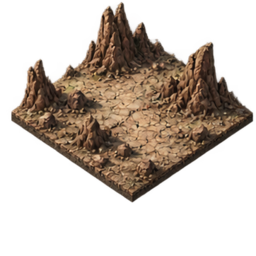
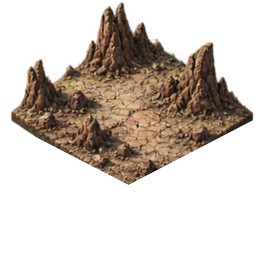
Improve isometric terrain layering
Amp-Thread-ID: https://ampcode.com/threads/T-01a0fe7e-6df1-75f4-80e9-f84066c7caea

Changed region(s): [[0.1875, 0.5, 0.9375, 0.8125], [0.9375, 0.4688, 1.0, 0.5], [0.1562, 0.5312, 0.1875, 0.5625]]

diff --git a/client/workspace/map-iso-renderer.ts b/client/workspace/map-iso-renderer.ts
@@ -17,7 +17,8 @@ const {
   isoRoomVariant,
   isoTerrainColor,
   isoTerrainMotion,
-  isoTerrainSprite,
+  isoTerrainOrientation,
+  isoTerrainSpriteForExits,
   isoVisible,
   projectIso,
 } = isoCore;
@@ -104,6 +105,7 @@ interface RoomMovement {
 
 const WATER = new Set(["sea", "lake", "river", "underwater"]);
 const WOODED = new Set(["forest", "jungle", "canopy"]);
+const ROUTED_TERRAIN = new Set(["bridge", "path", "road"]);
 const ISO_RENDER_SCALE = 2;
 const MOVE_DURATION_MS = 900;
 const SPATIAL_EXITS = new Set([
@@ -375,6 +377,48 @@ export function createIsoMapRenderer() {
     livingNodes.push({ node, terrain, variant });
   };
 
+  const addRouteSurface = (
+    layer: Container,
+    room: WorldMapRoom,
+    terrain: string,
+    x: number,
+    y: number,
+    width: number,
+    height: number,
+  ): void => {
+    if (!pixi || !ROUTED_TERRAIN.has(terrain)) return;
+    const points: Record<string, [number, number]> = {
+      north: [x + width * 0.25, y - height * 0.25],
+      northeast: [x + width * 0.5, y],
+      east: [x + width * 0.25, y + height * 0.25],
+      southeast: [x, y + height * 0.5],
+      south: [x - width * 0.25, y + height * 0.25],
+      southwest: [x - width * 0.5, y],
+      west: [x - width * 0.25, y - height * 0.25],
+      northwest: [x, y - height * 0.5],
+    };
+    const exits = Object.keys(room.exits ?? {}).filter((direction) => SPATIAL_EXITS.has(direction));
+    if (!exits.length) return;
+    const outerWidth =
+      (terrain === "path" ? 10 : 18) * (width / (ISO_TILE_WIDTH * ISO_RENDER_SCALE));
+    const innerWidth = outerWidth * 0.68;
+    const outer = new pixi.Graphics();
+    const inner = new pixi.Graphics();
+    for (const direction of exits) {
+      const point = points[direction];
+      if (!point) continue;
+      outer.moveTo(x, y).lineTo(point[0], point[1]);
+      inner.moveTo(x, y).lineTo(point[0], point[1]);
+    }
+    outer.stroke({ color: 0x4b3c2d, alpha: 0.72, width: outerWidth });
+    inner.stroke({
+      color: terrain === "bridge" ? 0x8b6842 : terrain === "path" ? 0xa78b61 : 0x9b866b,
+      alpha: terrain === "path" ? 0.7 : 0.88,
+      width: innerWidth,
+    });
+    layer.addChild(outer, inner);
+  };
+
   const addExits = (
     layer: Container,
     room: WorldMapRoom,
@@ -399,6 +443,7 @@ export function createIsoMapRenderer() {
       const point = points[direction];
       if (!point) continue;
       const door = Number(room.exitDoors?.[direction]) || 0;
+      if (!door) continue;
       layer.addChild(
         new pixi.Graphics()
           .moveTo(x, y)
@@ -680,6 +725,9 @@ export function createIsoMapRenderer() {
     }
 
     const ground = new pixi.Container();
+    const terrainBases = new pixi.Container();
+    const terrainArt = new pixi.Container();
+    ground.addChild(terrainBases, terrainArt);
     const features = new pixi.Container();
     const figures = new pixi.Container();
     const world = new pixi.Container();
@@ -710,7 +758,25 @@ export function createIsoMapRenderer() {
     let paintedTerrainSprites = 0;
     for (const { room, point } of visibleRooms) {
       const terrain = String(getPrimaryTerrain(room.environment));
+      const terrainOrientation = ROUTED_TERRAIN.has(terrain)
+        ? String(isoTerrainOrientation(room.exits))
+        : "";
+      const terrainSpriteName = String(isoTerrainSpriteForExits(terrain, room.exits));
       const color = isoTerrainColor(terrain);
+      const underlayColor = WATER.has(terrain)
+        ? 0x24383a
+        : ROUTED_TERRAIN.has(terrain)
+          ? isoTerrainColor("outside")
+          : color;
+      terrainBases.addChild(
+        new pixi.Graphics()
+          .moveTo(point.x, point.y - tileHeight / 2)
+          .lineTo(point.x + tileWidth / 2, point.y)
+          .lineTo(point.x, point.y + tileHeight / 2)
+          .lineTo(point.x - tileWidth / 2, point.y)
+          .closePath()
+          .fill({ color: underlayColor, alpha: WATER.has(terrain) ? 1 : 0.55 }),
+      );
       const diamond = new pixi.Graphics()
         .moveTo(point.x, point.y - tileHeight / 2)
         .lineTo(point.x + tileWidth / 2, point.y)
@@ -719,17 +785,20 @@ export function createIsoMapRenderer() {
         .closePath()
         .fill({ color: lighten(color, isoRoomVariant(room.id, 3) * 5), alpha: 0.98 })
         .stroke({ color: darken(color, 30), alpha: 0.9, width: Math.max(1, zoom) });
-      ground.addChild(diamond);
-      const terrainTexture = loadTexture(textureUrl("terrain", String(isoTerrainSprite(terrain))));
+      const terrainTexture = loadTexture(textureUrl("terrain", terrainSpriteName));
       if (terrainTexture) {
         const terrainSprite = new pixi.Sprite(terrainTexture);
-        terrainSprite.anchor.set(0.5, 0.6);
+        terrainSprite.anchor.set(0.5, 0.46);
         terrainSprite.position.set(point.x, point.y);
-        terrainSprite.width = tileWidth;
-        terrainSprite.height = tileWidth;
-        ground.addChild(terrainSprite);
+        terrainSprite.width = tileWidth * 1.18;
+        terrainSprite.height = tileWidth * 1.18;
+        if (terrainSpriteName === terrain && terrainOrientation === "east-west") {
+          terrainSprite.scale.x = -Math.abs(terrainSprite.scale.x);
+        }
+        terrainArt.addChild(terrainSprite);
         paintedTerrainSprites += 1;
       } else {
+        terrainBases.addChild(diamond);
         addTerrainDetails(
           features,
           terrain,
@@ -740,6 +809,7 @@ export function createIsoMapRenderer() {
           isoRoomVariant(room.id, 3),
         );
       }
+      addRouteSurface(features, room, terrain, point.x, point.y, tileWidth, tileHeight);
       addLivingTerrain(
         features,
         terrain,
@@ -783,6 +853,7 @@ export function createIsoMapRenderer() {
       const button = document.createElement("div");
       button.className = `map-tile map-tile-room map-iso-room map-tile-${terrain}${String(room.id) === currentRoomId ? " map-tile-player" : ""}`;
       button.dataset.roomId = room.id;
+      if (terrainOrientation) button.dataset.terrainOrientation = terrainOrientation;
       button.setAttribute("role", "button");
       button.setAttribute("tabindex", "0");
       button.setAttribute("aria-label", roomLabel(room, extras.tileLabel));

diff --git a/e2e/phase2-world.spec.ts b/e2e/phase2-world.spec.ts
@@ -434,7 +434,10 @@ test("standalone isometric map renders beside the flat map with terrain, service
     area: "Fixture Town",
     rooms: [
       atrium,
-      { ...currentRoom(102, "Eastern Forest", 1, { west: 101 }), environment: "forest" },
+      {
+        ...currentRoom(102, "Eastern Forest", 1, { west: 101, east: 105 }),
+        environment: "forest",
+      },
       {
         ...currentRoom(103, "South Road", 0, { north: 101, east: 104 }),
         x: 0,
@@ -447,6 +450,11 @@ test("standalone isometric map renders beside the flat map with terrain, service
         y: 1,
         environment: "river",
       },
+      {
+        ...currentRoom(105, "East Road", 2, { west: 102, east: 106 }),
+        environment: "road",
+      },
+      { ...currentRoom(106, "Far East", 3, { west: 105 }), environment: "plains" },
     ],
   });
   endpoint.sendGmcp("Room.Info", {
@@ -478,7 +486,11 @@ test("standalone isometric map renders beside the flat map with terrain, service
   await expect(current).toHaveClass(/map-tile-player/);
   await expect(isoMap.locator(".map-iso-frame")).toHaveAttribute("data-map-occupants", "3");
   await expect(isoMap.locator(".map-iso-frame")).toHaveAttribute("data-map-sprites", "6");
-  await expect(isoMap.locator(".map-iso-frame")).toHaveAttribute("data-map-terrain-sprites", "4");
+  await expect(isoMap.locator(".map-iso-frame")).toHaveAttribute("data-map-terrain-sprites", "6");
+  await expect(isoMap.getByRole("button", { name: "Speedwalk to East Road" })).toHaveAttribute(
+    "data-terrain-orientation",
+    "east-west",
+  );
   await expect(isoMap.getByRole("button", { name: "Speedwalk to Eastern Forest" })).toBeVisible();
   await current.focus();
   const tooltip = isoMap.getByRole("tooltip");

diff --git a/public/js/map-iso-core.js b/public/js/map-iso-core.js
@@ -75,6 +75,31 @@ export function isoTerrainSprite(terrain) {
   return TERRAIN_SPRITES.has(key) ? key : 'outside';
 }
 
+/** Chooses the painted isometric axis from a road-like room's mapped exits. */
+export function isoTerrainOrientation(exits = {}) {
+  const directions = new Set(Object.keys(exits || {}));
+  const northSouth = directions.has('north') || directions.has('south');
+  const eastWest = directions.has('east') || directions.has('west');
+  if (eastWest && !northSouth) return 'east-west';
+  if (northSouth && !eastWest) return 'north-south';
+  return 'junction';
+}
+
+/** Uses directional art only for a true straight; connectors draw every other road shape. */
+export function isoTerrainSpriteForExits(terrain, exits = {}) {
+  const sprite = isoTerrainSprite(terrain);
+  if (sprite !== 'road' && sprite !== 'path' && sprite !== 'bridge') return sprite;
+  const directions = new Set(
+    Object.keys(exits || {}).filter((direction) =>
+      ['north', 'northeast', 'east', 'southeast', 'south', 'southwest', 'west', 'northwest'].includes(direction),
+    ),
+  );
+  const straightNorthSouth =
+    directions.size === 2 && directions.has('north') && directions.has('south');
+  const straightEastWest = directions.size === 2 && directions.has('east') && directions.has('west');
+  return straightNorthSouth || straightEastWest ? sprite : 'outside';
+}
+
 /** Stable small variant number, so a room never changes appearance on redraw. */
 export function isoRoomVariant(roomId, variants = 3) {
   const count = Math.max(1, Math.floor(Number(variants) || 1));
